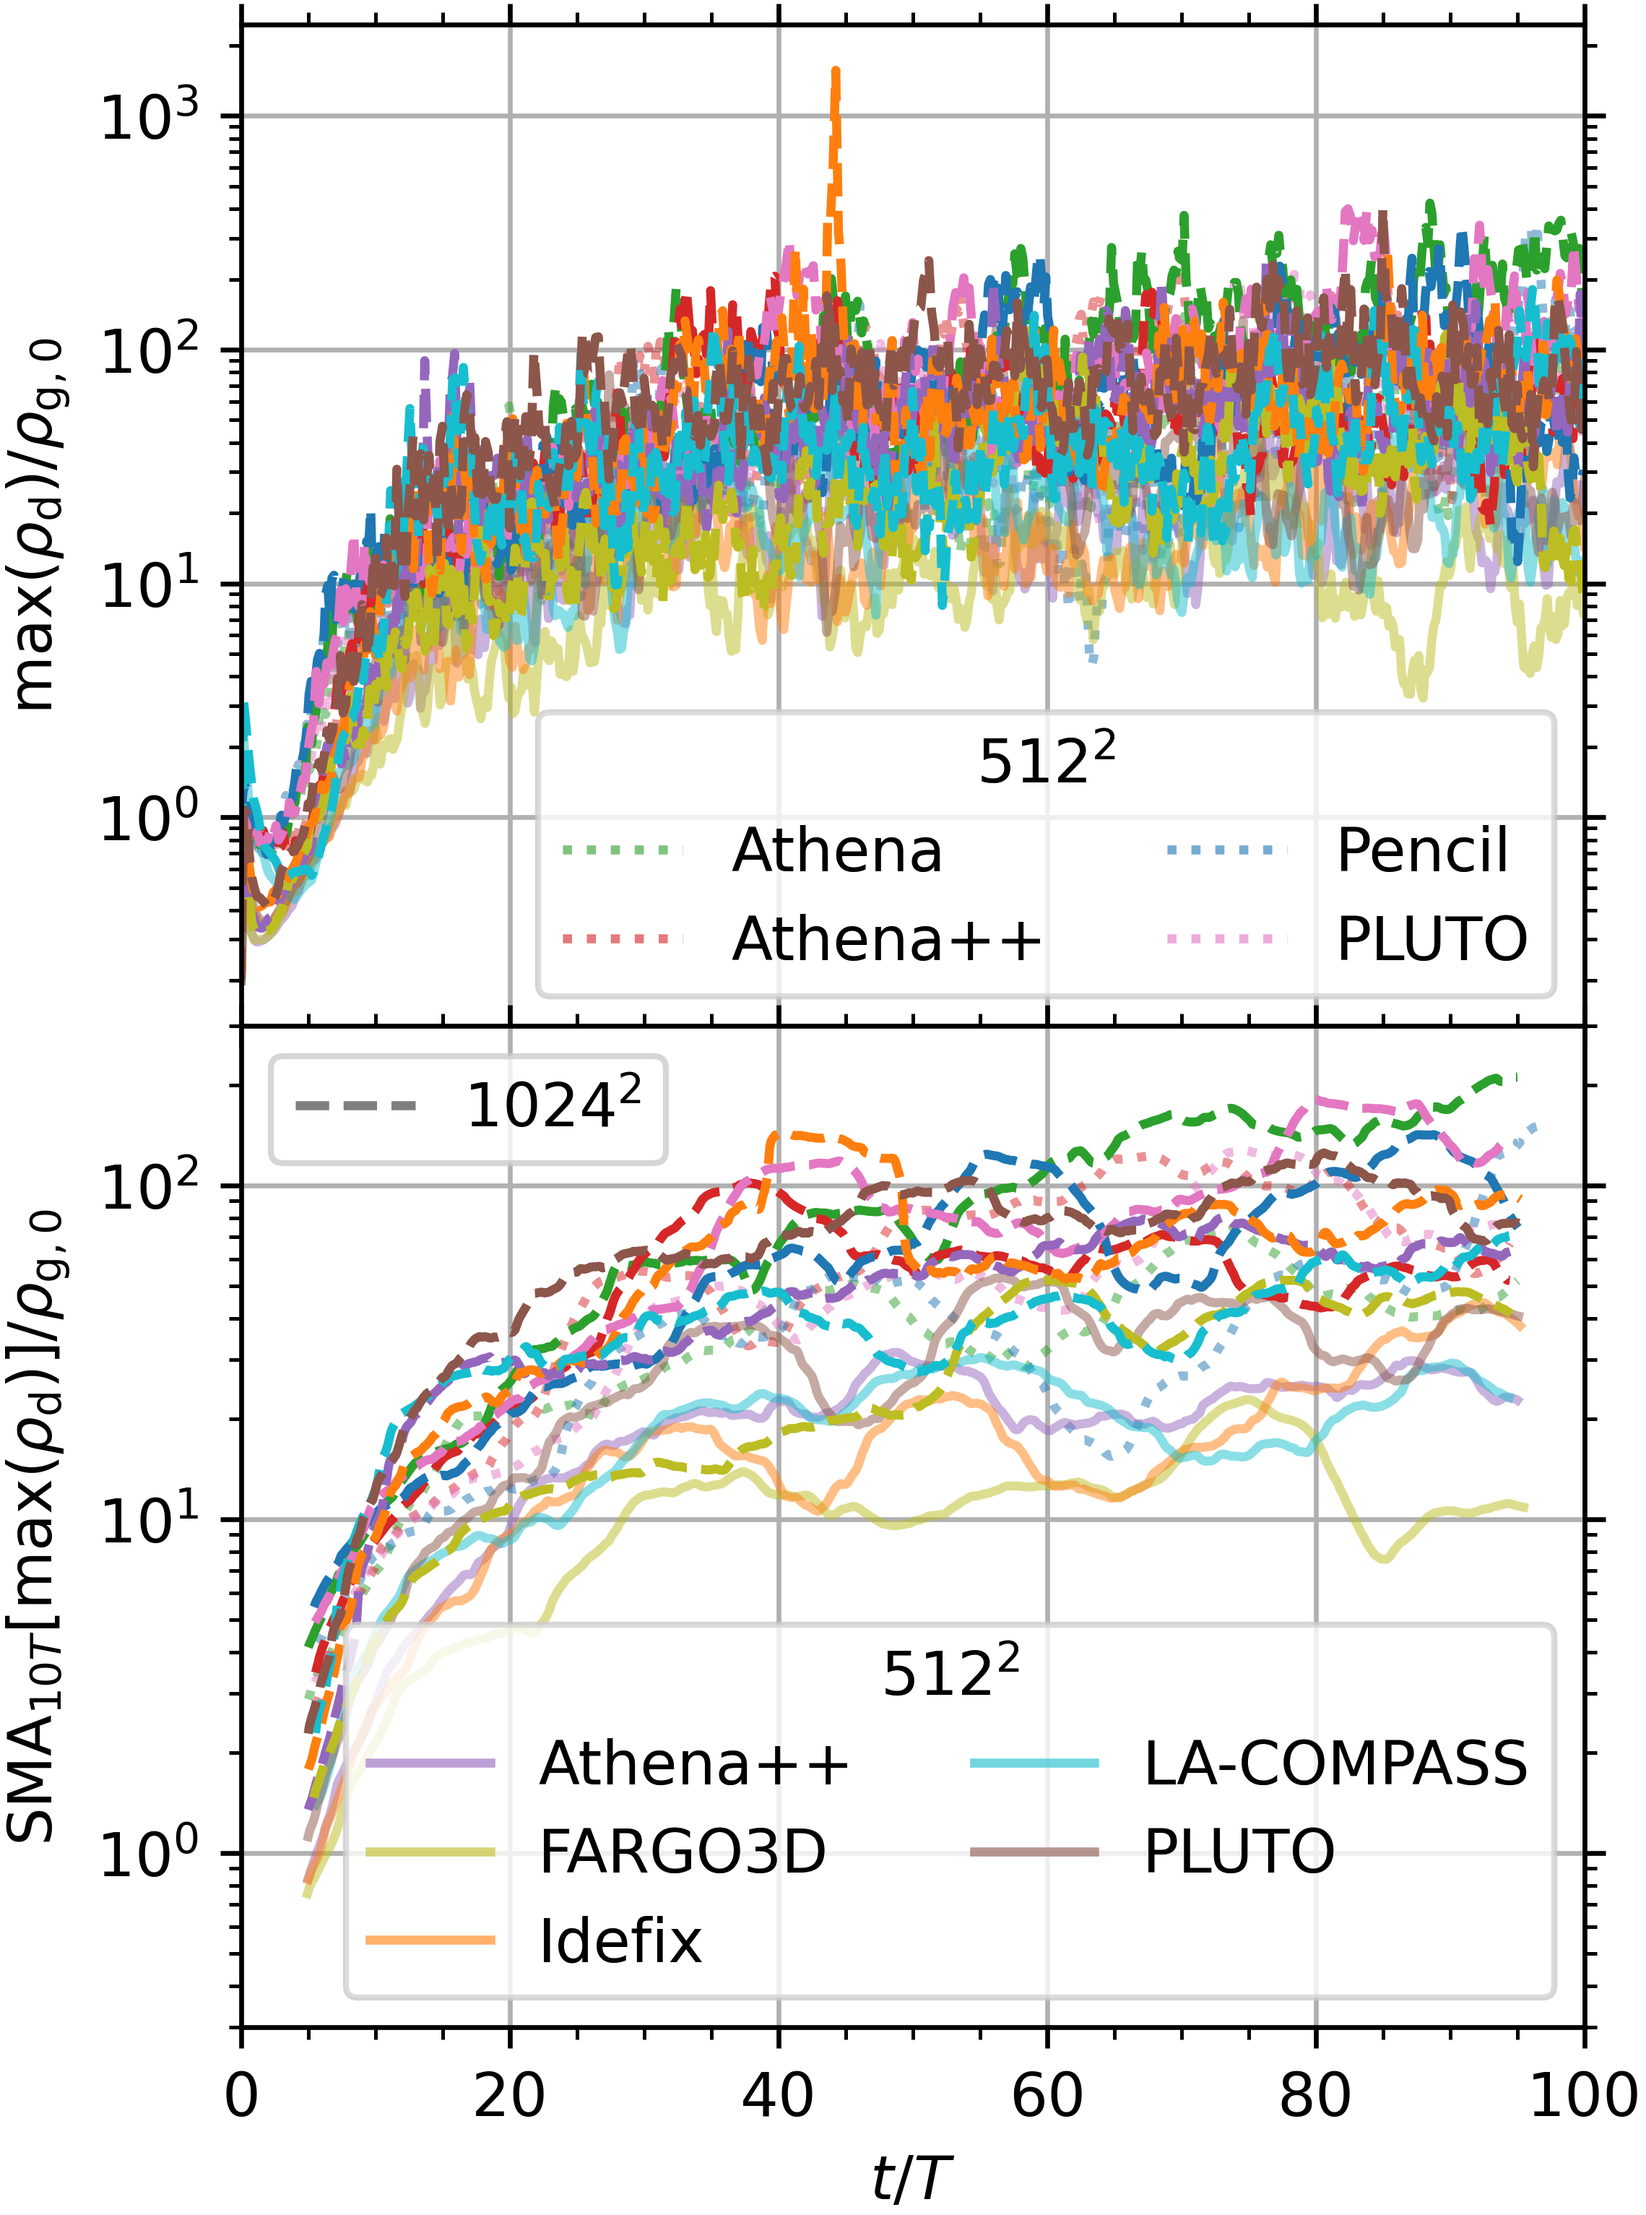
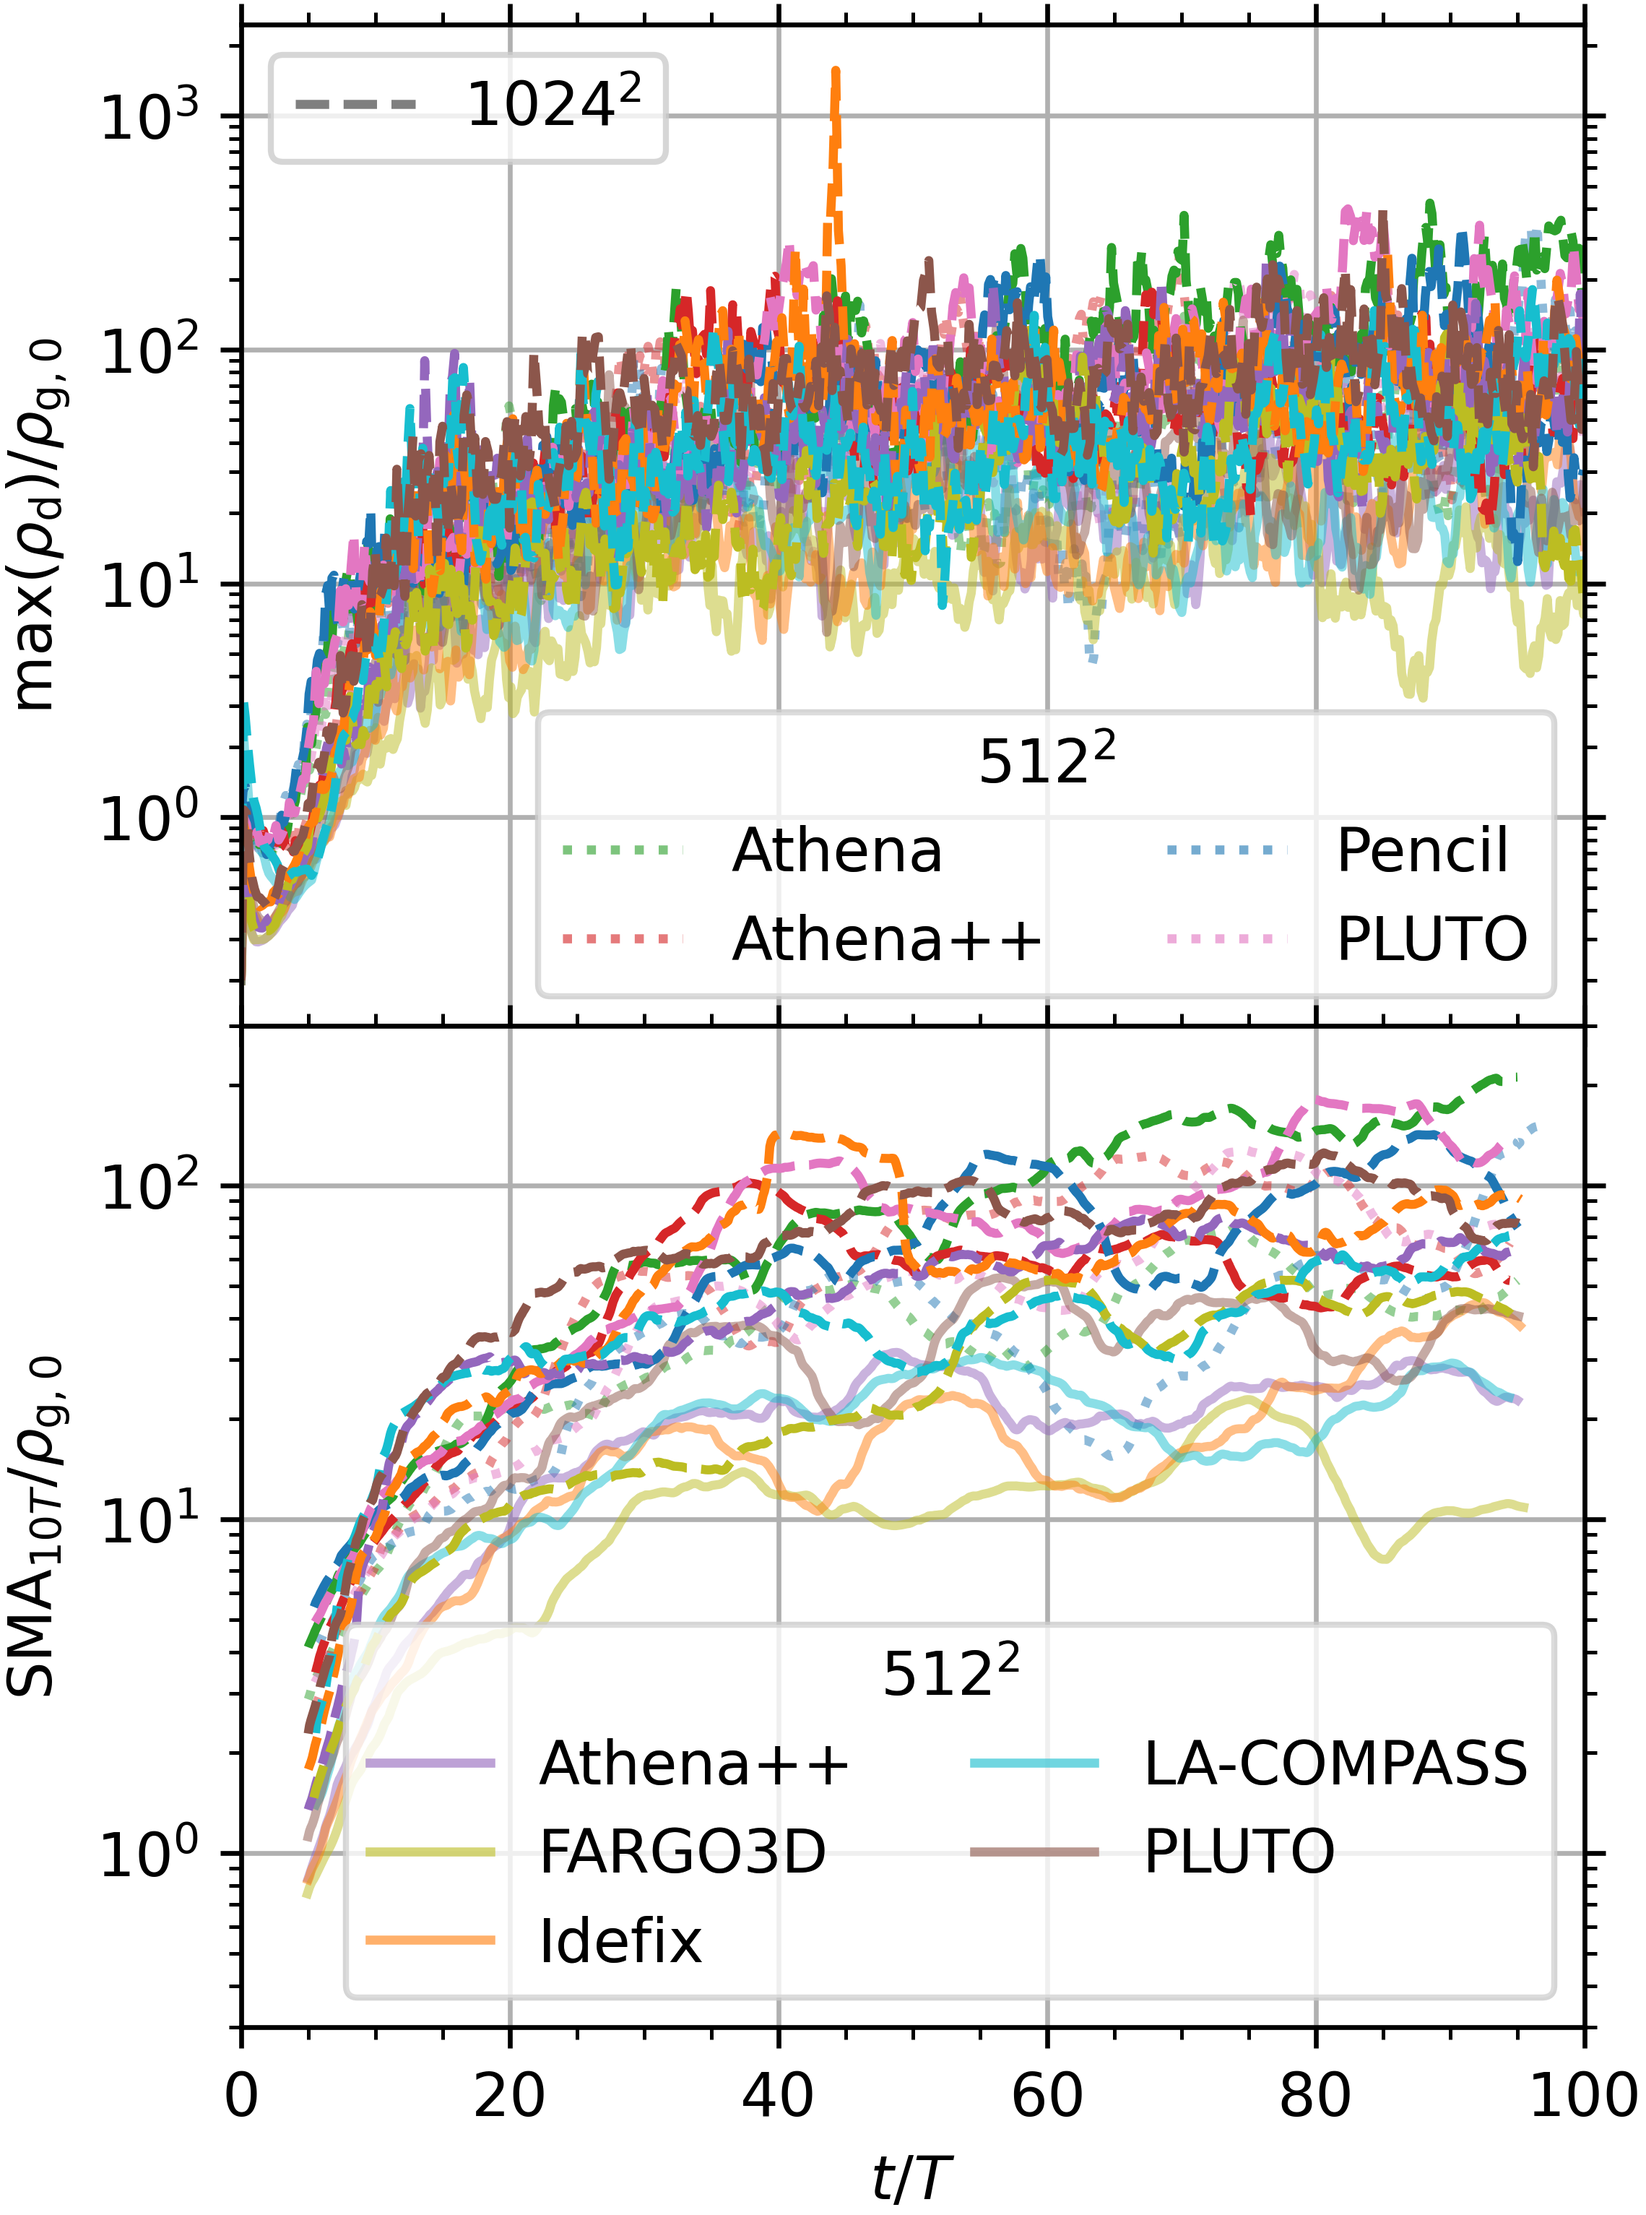
Add average CDFs for each dust method/variation

diff --git a/_research/05-code-comparison.md b/_research/05-code-comparison.md
@@ -49,10 +49,11 @@ The bottom panel shows the simple moving average $$\mathrm{SMA}$$ with a samplin
 Dotted lines show codes that implement an average of $$n_\mathrm{p} = 1$$ Lagrangian particle per grid cell, solid lines show codes with pressureless dust fluids, and line colors show different codes.
 
 ![](/assets/images/research/code-comparison/si/BA-512_CDF.png)
-**Figure 3.** Time-averaged cumulative distribution functions for the dust density for Problem BA at a grid resolution of 512².
-Lines show the densities time-averaged over the saturation state $$\overline{\rho_\mathrm{d}}$$, and shaded areas show the $$1\sigma$$ time variability.
+**Figure 3.** Cumulative distribution functions of the dust density for Problem BA at a grid resolution of 512².
+In the upper panel, lines show densities time-averaged over the saturation state $$\overline{\rho_\mathrm{d}}$$, line colors different codes, and shaded areas the $$1\sigma$$ time variability.
+In the lower panel, lines and shaded areas show the meta-average $$\overline{\overline{\rho_\mathrm{d}}}$$ and standard deviation, respectively, of $$\overline{\rho_\mathrm{d}}$$ in the upper panel for each dust implementation.
 Dust densities are relative to the initially uniform gas density $$\rho_\mathrm{g,0}$$.
-Dotted lines show codes that implement an average of $$n_\mathrm{p} = 1$$ Lagrangian particle per grid cell, solid lines show codes with pressureless dust fluids, and line colors show different codes.
+Dotted lines show codes that implement an average of $$n_\mathrm{p} = 1$$ Lagrangian particle per grid cell and solid lines codes with pressureless dust fluids.
 
 
 ##### Additional Particles
@@ -64,7 +65,7 @@ Dotted lines show codes that implement an average of $$n_\mathrm{p} = 1$$ Lagran
 **Figure 5.** Similar to Figure [2](#higher-particle-resolution:~:text=.-,Figure%202.,-Maximum%20dust%20densities) except comparing only Lagrangian-particle implementations with dashed lines showing an average of $$n_\mathrm{p} = 9$$ particles per grid cell.
 
 ![](/assets/images/research/code-comparison/si/BA-512-np9_CDF.png)
-**Figure 6.** Similar to Figure [3](#higher-particle-resolution:~:text=show%20different%20codes.-,Figure%203.,-Time%2Daveraged%20cumulative) except comparing only Lagrangian-particle implementations with dashed lines showing an average $$n_\mathrm{p} = 9$$ particles per grid cell.
+**Figure 6.** Similar to Figure [3](#higher-particle-resolution:~:text=show%20different%20codes.-,Figure%203.,-Time%2Daveraged%20cumulative) except comparing only Lagrangian-particle implementations with dashed lines showing an average of $$n_\mathrm{p} = 9$$ particles per grid cell.
 
 #### Higher Grid Resolution
 
@@ -75,4 +76,4 @@ Dotted lines show codes that implement an average of $$n_\mathrm{p} = 1$$ Lagran
 **Figure 8.** Similar to Figure [2](#higher-particle-resolution:~:text=.-,Figure%202.,-Maximum%20dust%20densities) except with dashed lines showing grid resolutions of 1024².
 
 ![](/assets/images/research/code-comparison/si/BA-1024_CDF.png)
-**Figure 9.** Similar to Figure [3](#higher-particle-resolution:~:text=show%20different%20codes.-,Figure%203.,-Time%2Daveraged%20cumulative) except with dashed lines showing grid resolutions of 1024².
+**Figure 9.** Similar to Figure [3](#higher-particle-resolution:~:text=show%20different%20codes.-,Figure%203.,-Time%2Daveraged%20cumulative), except grid resolutions at 1024² are shown as dashed and darker lines in the upper and lower panels, respectively.
